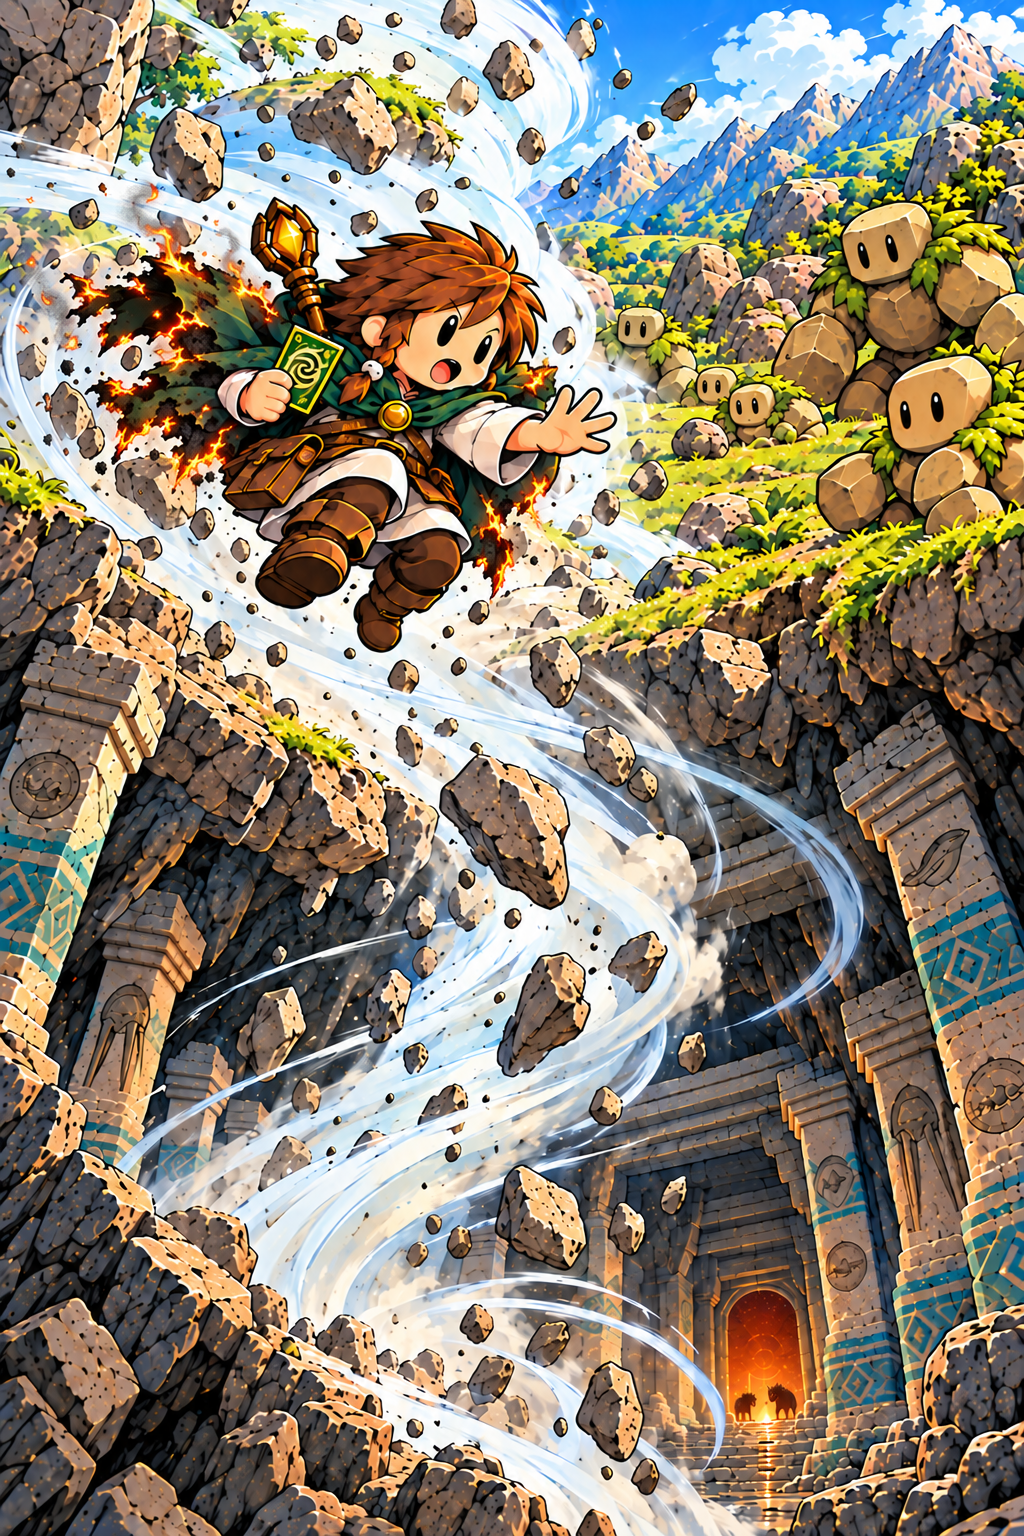
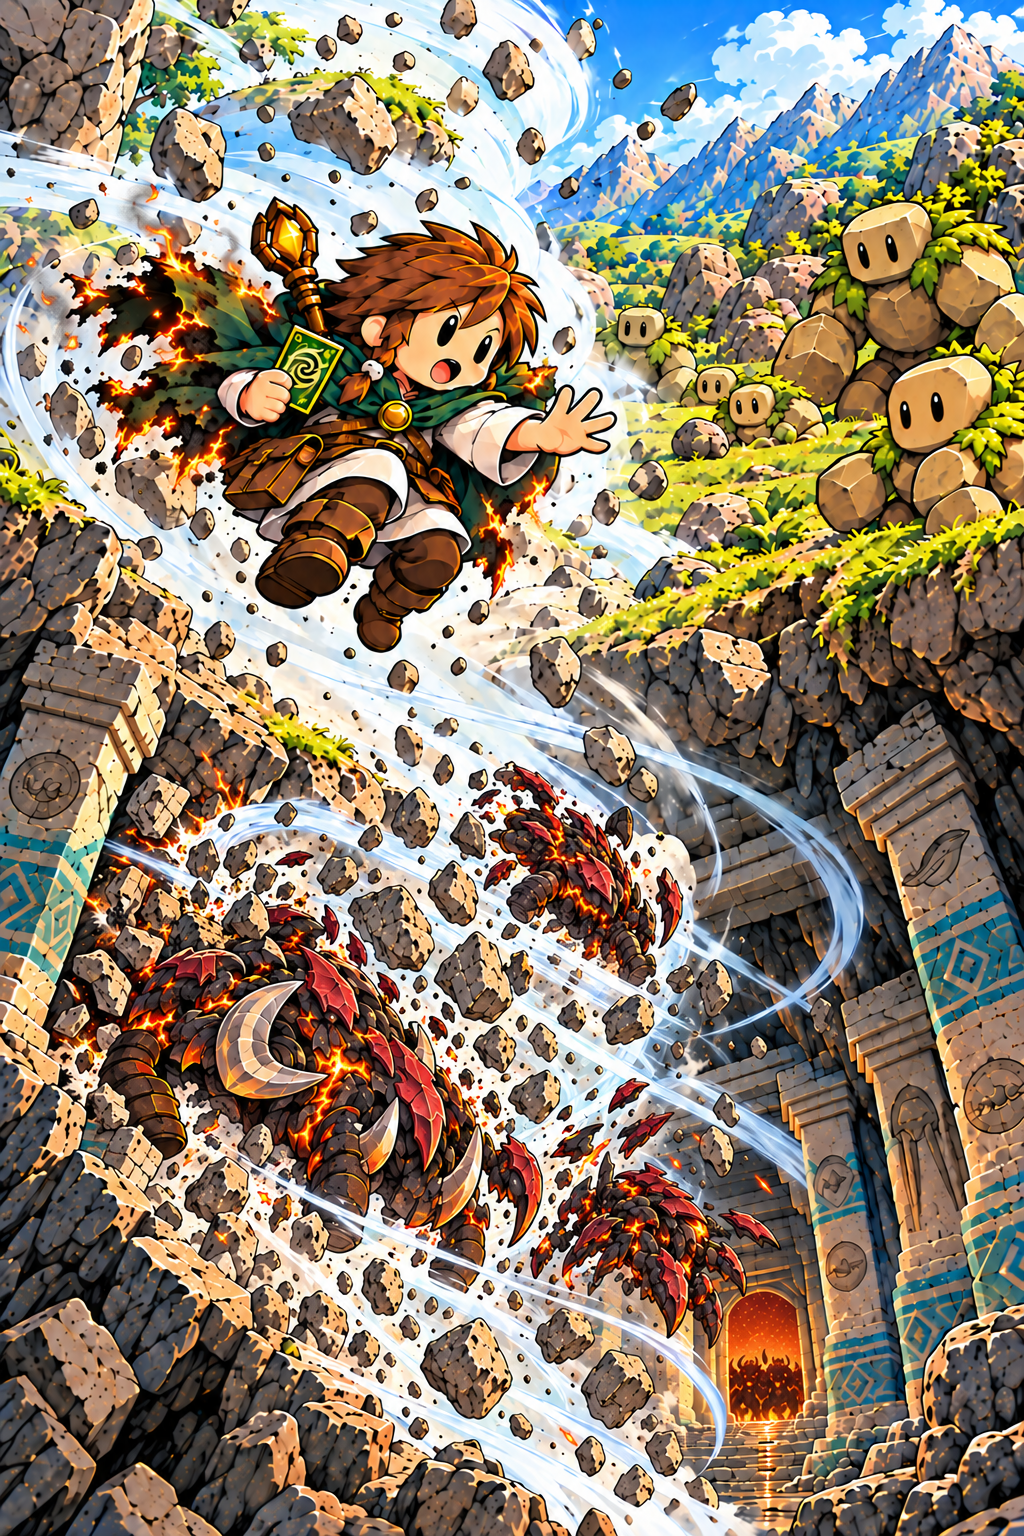
fix: 만화 4화 악마 누락과 탑 외형 수정

diff --git a/content/arcane-casters/story/episodes/004/index.html b/content/arcane-casters/story/episodes/004/index.html
@@ -2,4 +2,4 @@
 <meta name="viewport" content="width=device-width,initial-scale=1">
 <meta name="robots" content="noindex,noimageindex"><title>4화 · 검토용</title>
 <style>*{box-sizing:border-box}html{background:#0d2238;color:#eef3f8;font-family:system-ui,sans-serif}body{margin:0}header{max-width:900px;margin:auto;padding:24px 16px}h1{font-size:20px;margin:0}main{max-width:900px;margin:auto}figure{margin:0 0 12px}img{display:block;width:100%;height:auto}</style>
-</head><body><header><h1>4화 · 검토용</h1></header><main><figure><img src="art-v3/page-01-portal-continuity.png" alt="문 앞에 남은 핀" width="1024" height="1536" loading="eager"></figure><figure><img src="art-v3/page-02-tornado-demons.png" alt="바람을 틀어 올리다" width="1024" height="1536" loading="lazy"></figure><figure><img src="art-v2/page-03-burn-continuity.png" alt="지붕을 뚫고" width="1024" height="1536" loading="lazy"></figure><figure><img src="art-v2/page-04-burn-continuity.png" alt="익숙한 마을" width="1024" height="1536" loading="lazy"></figure><figure><img src="art-v2/page-05-burn-continuity.png" alt="갈라지는 기운" width="1024" height="1536" loading="lazy"></figure><figure><img src="art-v2/page-06-burn-continuity.png" alt="내밀었던 손" width="1024" height="1536" loading="lazy"></figure><figure><img src="art-v2/page-07-burn-continuity.png" alt="도망길을 막는 돌" width="1024" height="1536" loading="lazy"></figure><figure><img src="art-v2/page-08-burn-continuity.png" alt="탑 쪽으로" width="1024" height="1536" loading="lazy"></figure><figure><img src="art-v3/page-09-single-visible-arm.png" alt="손이 움직이지 않는다" width="1024" height="1536" loading="lazy"></figure><figure><img src="art-v3/page-10-golem-destruction.png" alt="부서진 손" width="1024" height="1536" loading="lazy"></figure><figure><img src="art-v3/page-11-golem-remains.png" alt="같은 방향" width="1024" height="1536" loading="lazy"></figure><figure><img src="art-v2/page-12-burn-continuity.png" alt="하늘의 작은 구름" width="1024" height="1536" loading="lazy"></figure></main></body></html>
+</head><body><header><h1>4화 · 검토용</h1></header><main><figure><img src="art-v3/page-01-portal-continuity.png" alt="문 앞에 남은 핀" width="1024" height="1536" loading="eager"></figure><figure><img src="art-v3/page-02-tornado-demons.png" alt="바람을 틀어 올리다" width="1024" height="1536" loading="lazy"></figure><figure><img src="art-v3/page-03-tornado-demons.png" alt="지붕을 뚫고" width="1024" height="1536" loading="lazy"></figure><figure><img src="art-v2/page-04-burn-continuity.png" alt="익숙한 마을" width="1024" height="1536" loading="lazy"></figure><figure><img src="art-v2/page-05-burn-continuity.png" alt="갈라지는 기운" width="1024" height="1536" loading="lazy"></figure><figure><img src="art-v2/page-06-burn-continuity.png" alt="내밀었던 손" width="1024" height="1536" loading="lazy"></figure><figure><img src="art-v2/page-07-burn-continuity.png" alt="도망길을 막는 돌" width="1024" height="1536" loading="lazy"></figure><figure><img src="art-v3/page-08-tower-continuity.png" alt="탑 쪽으로" width="1024" height="1536" loading="lazy"></figure><figure><img src="art-v3/page-09-single-visible-arm.png" alt="손이 움직이지 않는다" width="1024" height="1536" loading="lazy"></figure><figure><img src="art-v3/page-10-golem-destruction.png" alt="부서진 손" width="1024" height="1536" loading="lazy"></figure><figure><img src="art-v3/page-11-golem-remains.png" alt="같은 방향" width="1024" height="1536" loading="lazy"></figure><figure><img src="art-v2/page-12-burn-continuity.png" alt="하늘의 작은 구름" width="1024" height="1536" loading="lazy"></figure></main></body></html>

diff --git a/content/arcane-casters/story/episodes/004/REVIEW.md b/content/arcane-casters/story/episodes/004/REVIEW.md
@@ -29,3 +29,7 @@
 ## 웹페이지 검증
 
 한영 WebP 24장과 표지, 12개 번역 영역을 내보냈다. 모든 장에서 말풍선 밖 원화 픽셀이 유지되는 것을 검사했다. 영어판의 각 대사와 검붉은 명령 테두리를 직접 확인했다. 빌드·린트와 Playwright 전체 74개가 통과했다. 4화 목록 진입, 언어별 12장 이미지, 언어 전환, 이어읽기와 완독 기록, 공유 주소, 3화 다음화 이동을 포함한다. 계정·랭킹은 기존 로컬 fixture 검사이며 운영 검증은 아니다.
+
+## 3장과 8장 추가 수정
+
+3장 전면 그림의 지하 토네이도에도 악마가 휘말리며, 열린 차원문 뒤에는 군단이 남는다. 8장의 세 컷에 보이는 탑은 1화 1장의 파란 원뿔 지붕·금색 꼭대기 장식·원통형 돌벽·둥근 테라스·담쟁이 외형으로 맞췄다. 핀·골렘·대사·망토의 불길과 장별 구도는 유지했다.

diff --git a/content/arcane-casters/story/episodes/004/REFERENCES.md b/content/arcane-casters/story/episodes/004/REFERENCES.md
@@ -16,3 +16,7 @@
 ## art-v3 수정 기준
 
 1장은 2화 차원문 개방 장면의 위치와 손에 든 지팡이를 이어 받는다. 2장은 바람에 공격받는 악마를 추가한다. 9장은 머리를 짚는 한 손만 보이는 구도로 정리한다. 10장은 붉은 카드로 골렘을 부순 뒤 쓰러진 머리를 재차 공격하며, 11장은 그 잔해를 남긴다. 선택 원고와 정확한 수정 요청문은 selected-pages.json의 art-v3/·prompts-v3/ 경로를 따른다.
+
+## 3장과 8장 추가 수정
+
+3장 전면 그림의 지하 토네이도에도 악마가 휘말리며, 열린 차원문 뒤에는 군단이 남는다. 8장의 세 컷에 보이는 탑은 1화 1장의 파란 원뿔 지붕·금색 꼭대기 장식·원통형 돌벽·둥근 테라스·담쟁이 외형으로 맞췄다. 핀·골렘·대사·망토의 불길과 장별 구도는 유지했다.
